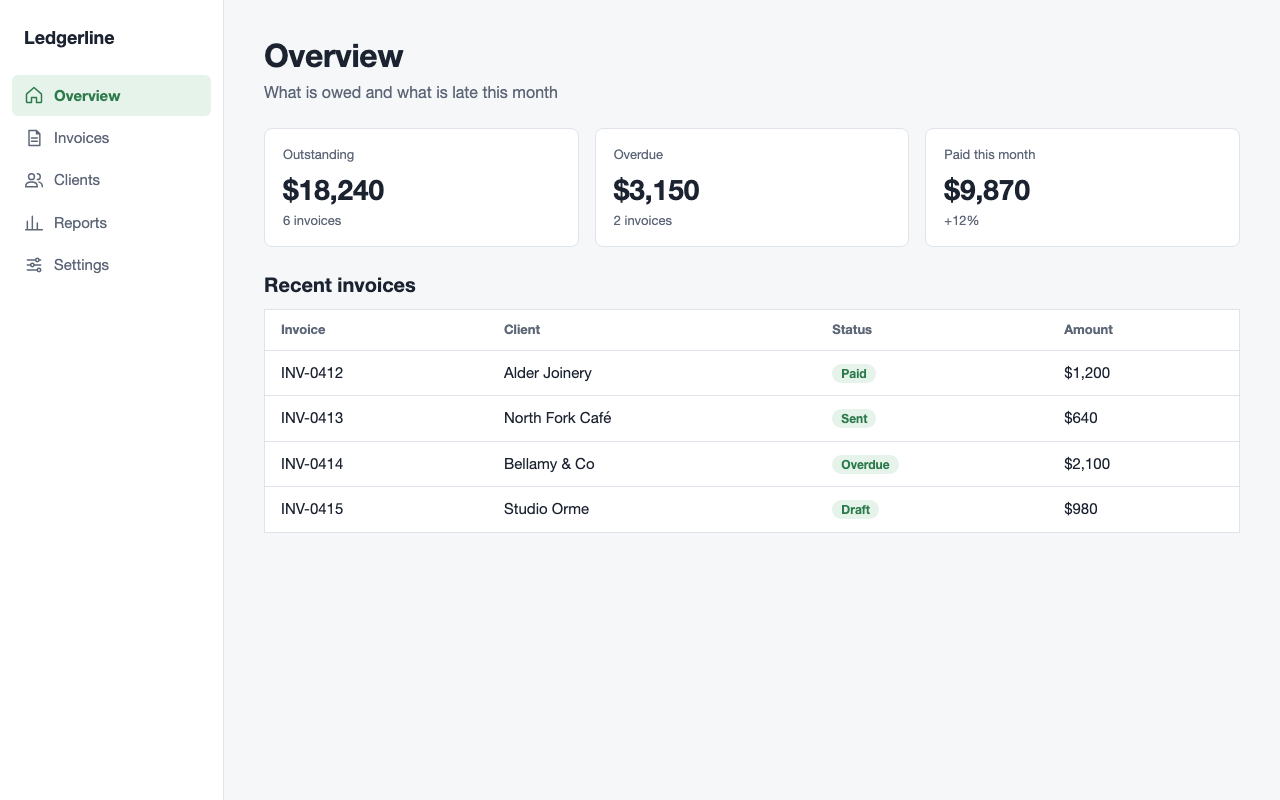
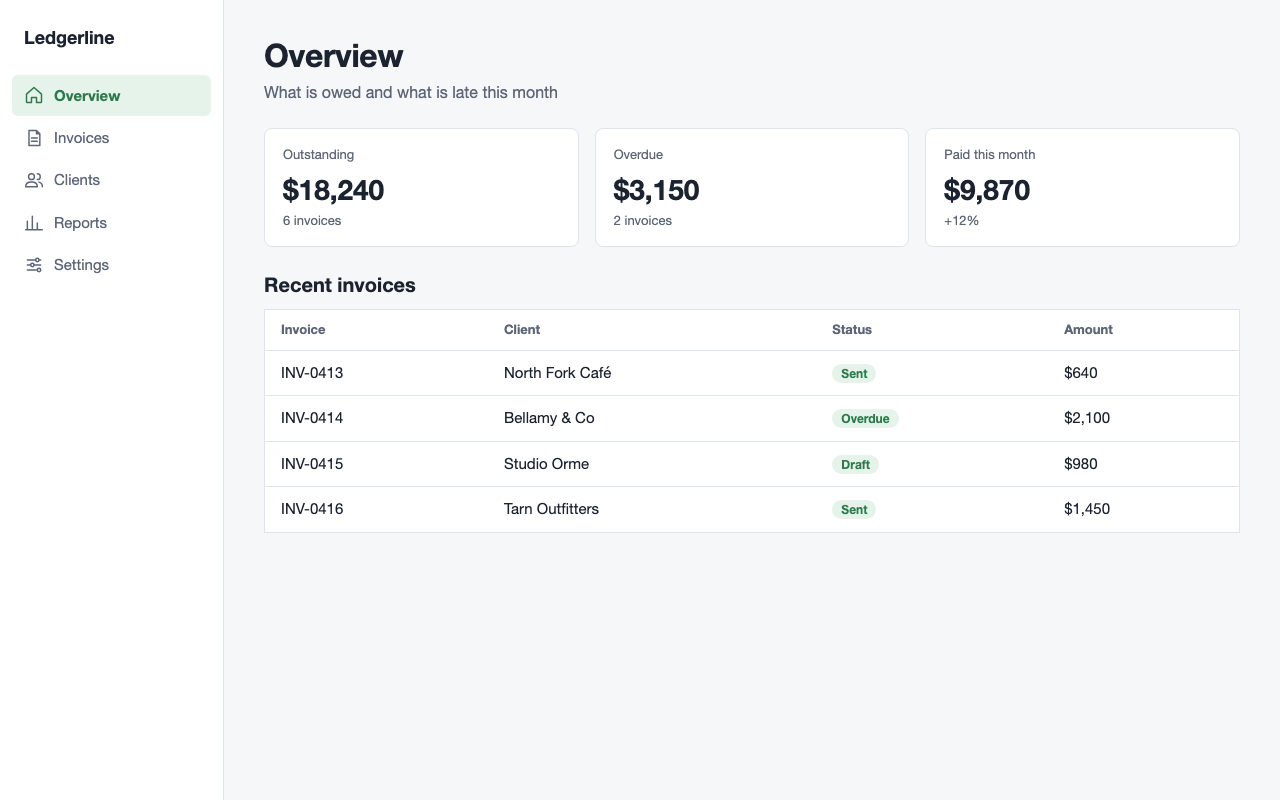
fix(evals): fix two content slips in sets version 2
The realism reviewer (a fresh agent that saw no crit or score) passed
version 2 and named two slips: the set-01 subtitle said three
departures over a longer table, and the set-02 Overview table stopped
at INV-0415 while the Invoices page listed INV-0416.

Ticket: crit-j8y.8
PRD: EV-21

diff --git a/evals/sets/set-01/screen-1.html b/evals/sets/set-01/screen-1.html
@@ -37,7 +37,7 @@ td{padding:11px 16px;border-bottom:1px solid #dfe3ea;font-size:15px}
 </style></head><body><div class="shell">
 <div class="nav"><div class="brand">Tidewise</div><div class="nav-links"><a class="nav-item active"><svg width="20" height="20" viewBox="0 0 24 24" fill="none" stroke="#0b6e8a" stroke-width="1.75" stroke-linejoin="round" stroke-linecap="round"><circle cx="12" cy="12" r="9"/><path d="M15.5 8.5l-2 5-5 2 2-5z"/></svg><span>Trips</span></a><a class="nav-item"><svg width="20" height="20" viewBox="0 0 24 24" fill="none" stroke="#5d6677" stroke-width="1.75" stroke-linejoin="round" stroke-linecap="round"><path d="M3 15h18l-2 5H5zM12 3v12M12 4l6 8h-6"/></svg><span>Boats</span></a><a class="nav-item"><svg width="20" height="20" viewBox="0 0 24 24" fill="none" stroke="#5d6677" stroke-width="1.75" stroke-linejoin="round" stroke-linecap="round"><path d="M2 9c2.5 0 2.5-2 5-2s2.5 2 5 2 2.5-2 5-2 2.5 2 5 2M2 15c2.5 0 2.5-2 5-2s2.5 2 5 2 2.5-2 5-2 2.5 2 5 2"/></svg><span>Tides</span></a><a class="nav-item"><svg width="20" height="20" viewBox="0 0 24 24" fill="none" stroke="#5d6677" stroke-width="1.75" stroke-linejoin="round" stroke-linecap="round"><circle cx="9" cy="8" r="3.5"/><path d="M2 20c0-3.5 3-5.5 7-5.5s7 2 7 5.5zM16 4.5a3.5 3.5 0 0 1 0 7M18 14.5c2.4.6 4 2.4 4 5.5"/></svg><span>Crew</span></a><a class="nav-item"><svg width="20" height="20" viewBox="0 0 24 24" fill="none" stroke="#5d6677" stroke-width="1.75" stroke-linejoin="round" stroke-linecap="round"><path d="M4 6h10M18 6h2M4 12h4M12 12h8M4 18h12M20 18h0"/><circle cx="16" cy="6" r="2"/><circle cx="10" cy="12" r="2"/><circle cx="18" cy="18" r="2"/></svg><span>Settings</span></a><a class="nav-item"><svg width="20" height="20" viewBox="0 0 24 24" fill="none" stroke="#5d6677" stroke-width="1.75" stroke-linejoin="round" stroke-linecap="round"><path d="M6 17V11a6 6 0 0 1 12 0v6l2 2H4zM10 21h4"/></svg><span>Alerts</span></a></div></div>
 <div class="main"><div class="inner">
-<h1>Trips</h1><p class="sub">Three departures this week from Harbor Pier</p>
+<h1>Trips</h1><p class="sub">Today's departures from Harbor Pier</p>
 <div class="row"><div class="card"><div class="delta">Trips this week</div><div class="stat">12</div><div class="delta">+3 from last week</div></div><div class="card"><div class="delta">Boats free today</div><div class="stat">4</div><div class="delta">of 9</div></div><div class="card"><div class="delta">Crew on shift</div><div class="stat">7</div><div class="delta">2 on call</div></div></div>
 <h2>Departures</h2>
 <table><tr><th>Trip</th><th>Boat</th><th>Status</th><th>Departs</th></tr><tr><td>Morning fishing</td><td>Sea Wren</td><td><span class="tag">Confirmed</span></td><td>06:30</td></tr><tr><td>Island loop</td><td>Calla</td><td><span class="tag">Pending</span></td><td>09:15</td></tr><tr><td>Sunset sail</td><td>Marigold</td><td><span class="tag">Confirmed</span></td><td>17:45</td></tr><tr><td>Seal watching</td><td>Sea Wren</td><td><span class="tag">Confirmed</span></td><td>Tomorrow 08:00</td></tr></table>

diff --git a/evals/sets/set-02/screen-1.html b/evals/sets/set-02/screen-1.html
@@ -40,5 +40,5 @@ td{padding:11px 16px;border-bottom:1px solid #dfe3ea;font-size:15px}
 <h1>Overview</h1><p class="sub">What is owed and what is late this month</p>
 <div class="row"><div class="card"><div class="delta">Outstanding</div><div class="stat">$18,240</div><div class="delta">6 invoices</div></div><div class="card"><div class="delta">Overdue</div><div class="stat">$3,150</div><div class="delta">2 invoices</div></div><div class="card"><div class="delta">Paid this month</div><div class="stat">$9,870</div><div class="delta">+12%</div></div></div>
 <h2>Recent invoices</h2>
-<table><tr><th>Invoice</th><th>Client</th><th>Status</th><th>Amount</th></tr><tr><td>INV-0412</td><td>Alder Joinery</td><td><span class="tag">Paid</span></td><td>$1,200</td></tr><tr><td>INV-0413</td><td>North Fork Café</td><td><span class="tag">Sent</span></td><td>$640</td></tr><tr><td>INV-0414</td><td>Bellamy &amp; Co</td><td><span class="tag">Overdue</span></td><td>$2,100</td></tr><tr><td>INV-0415</td><td>Studio Orme</td><td><span class="tag">Draft</span></td><td>$980</td></tr></table>
+<table><tr><th>Invoice</th><th>Client</th><th>Status</th><th>Amount</th></tr><tr><td>INV-0413</td><td>North Fork Café</td><td><span class="tag">Sent</span></td><td>$640</td></tr><tr><td>INV-0414</td><td>Bellamy &amp; Co</td><td><span class="tag">Overdue</span></td><td>$2,100</td></tr><tr><td>INV-0415</td><td>Studio Orme</td><td><span class="tag">Draft</span></td><td>$980</td></tr><tr><td>INV-0416</td><td>Tarn Outfitters</td><td><span class="tag">Sent</span></td><td>$1,450</td></tr></table>
 </div></div></div></body></html>
